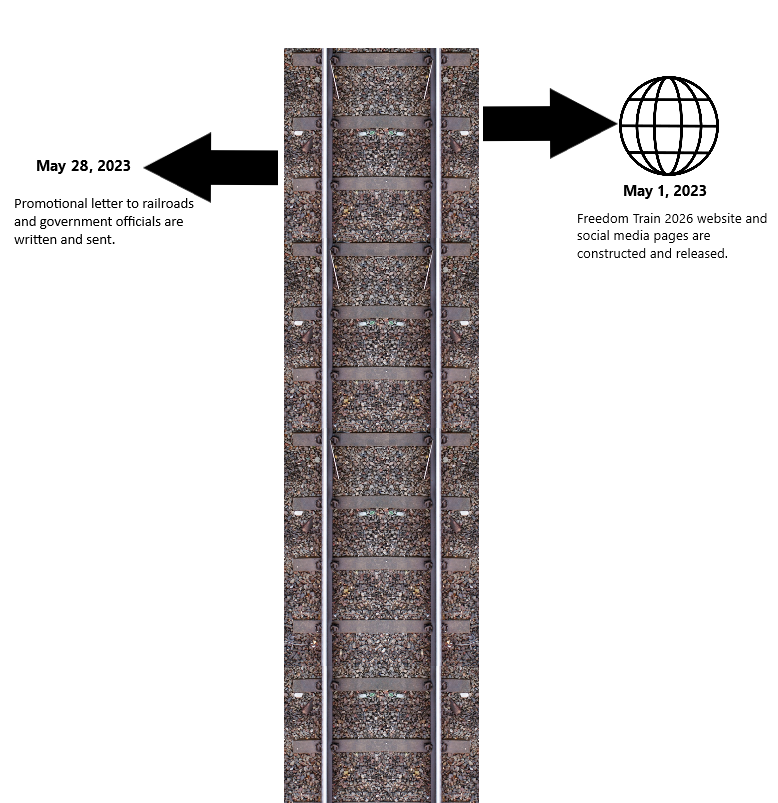
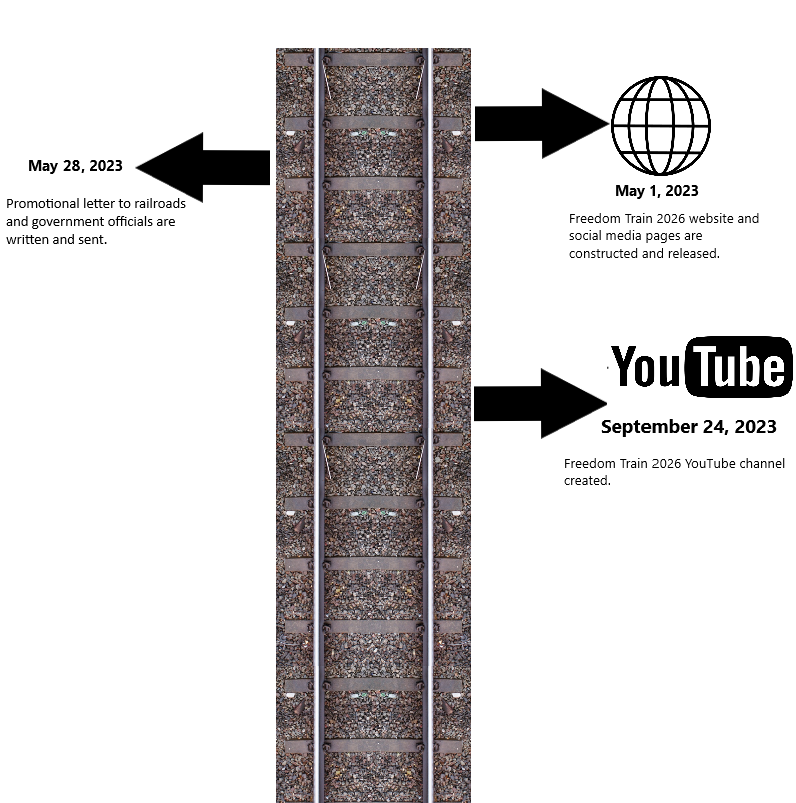
Added YouTube Page and Updated Timeline
I added a YouTube button and linked the YouTube channel to the website. I also updated the timeline to show that the YouTube channel was made.

I also updated the sitemap since I did a bit more work on the site today. Hopefully, more things are accomplished this time around.

diff --git a/index.html b/index.html
@@ -328,6 +328,7 @@
 					<ul class="icons">
 						<li><a href="https://twitter.com/FreedomTrain26" class="icon brands style2 fa-twitter" title="X" target="_blank"><span class="label">X</span></a></li>
 						<li><a href="https://www.facebook.com/freedomtrain2026" class="icon brands style2 fa-facebook-f" title="Facebook" target="_blank"><span class="label">Facebook</span></a></li>
+						<li><a href="https://www.youtube.com/@FreedomTrain2026" class="icon brands style2 fa-youtube" title="YouTube" target="_blank"><span class="label">YouTube</span></a></li>
 						<!--<li><a href="#" class="icon brands style2 fa-instagram" title="Instagram"><span class="label">Instagram</span></a></li>-->
 						<!--<li><a href="#" class="icon brands style2 fa-linkedin-in"><span class="label">LinkedIn</span></a></li>
 		<li><a href="#" class="icon style2 fa-envelope"><span class="label">Email</span></a></li>-->
